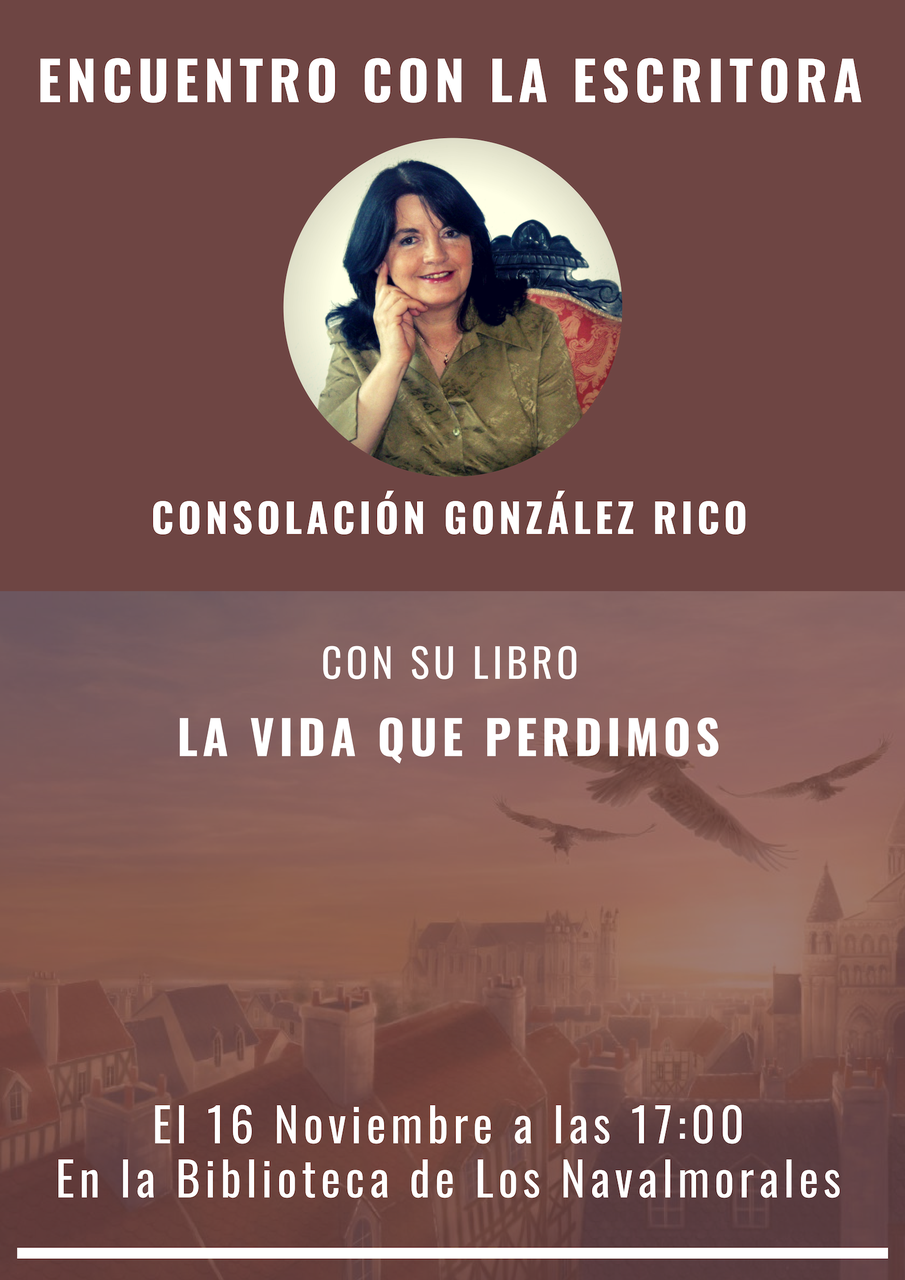
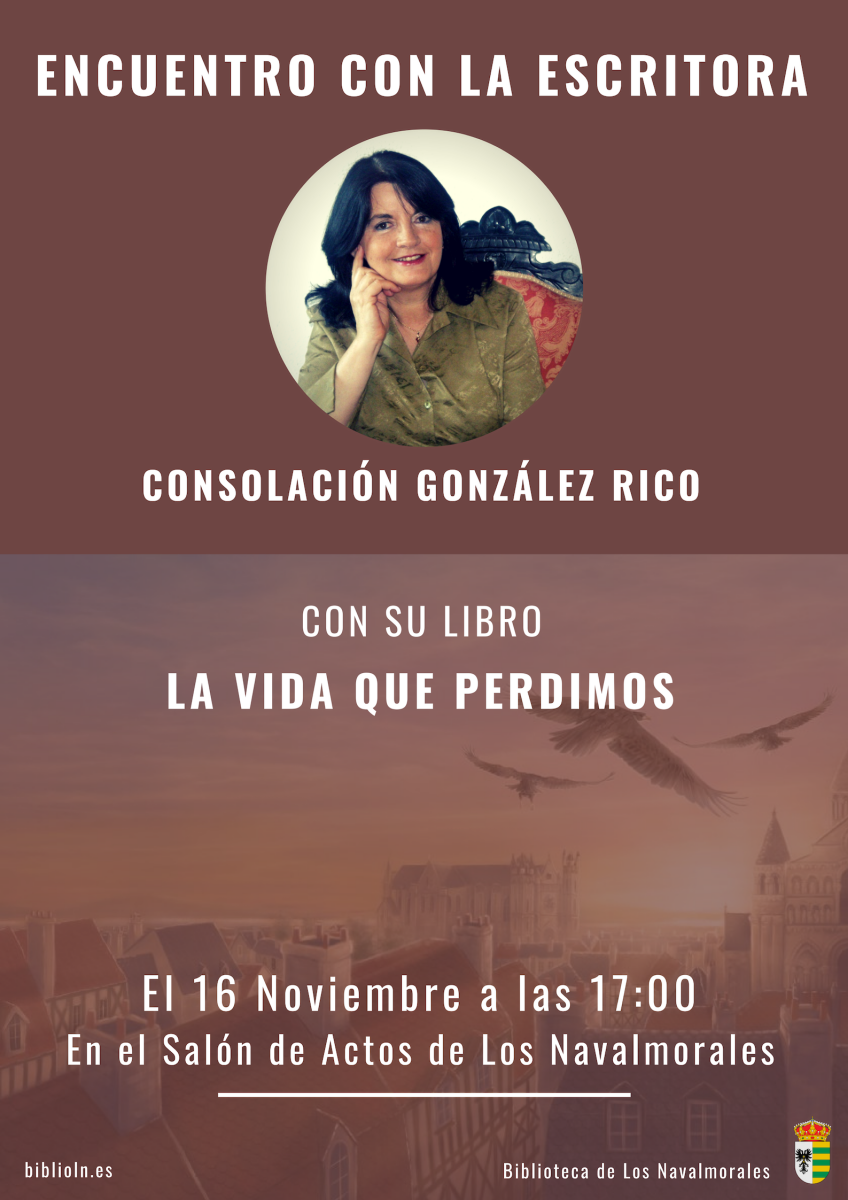
Nikola auto commit.
Source commit: 4f92917197f484704f2e67c9673b4fca20db30a5
Nikola version: 8.0.1

Changed region(s): [[0.0, 0.8017, 0.9811, 0.9867]]

diff --git a/posts/2018/10/encuentro-consolacion-gonzalez-rico./index.html b/posts/2018/10/encuentro-consolacion-gonzalez-rico./index.html
@@ -123,7 +123,7 @@
 
     </header><div class="e-content entry-content" itemprop="articleBody text">
     <div>
-<p>El próximo día 16 de Noviembre a las 17:00 en la Biblioteca, tendrá lugar un encuentro con la escritora <strong>Gonsolación González Rico</strong> con su libro <em>La Vida que Perdimos</em>.</p>
+<p>El próximo día 16 de Noviembre a las 17:00 en el Salón de Actos de Los Navalmorales, tendrá lugar un encuentro con la escritora <strong>Gonsolación González Rico</strong> con su libro <em>La Vida que Perdimos</em>.</p>
 <p>¡Estáis todos y todas invitados!</p>
 <a class="reference external image-reference" href="../../../../2018/encuentro-consolacion-gonzalez-rico.png"><img alt="/2018/encuentro-consolacion-gonzalez-rico.thumbnail.png" class="align-center" src="../../../../2018/encuentro-consolacion-gonzalez-rico.thumbnail.png"></a>
 </div>

diff --git a/index.html b/index.html
@@ -211,7 +211,7 @@
 </div>
             </header><div class="e-content entry-content">
                     <div>
-<p>El próximo día 16 de Noviembre a las 17:00 en la Biblioteca, tendrá lugar un encuentro con la escritora <strong>Gonsolación González Rico</strong> con su libro <em>La Vida que Perdimos</em>.</p>
+<p>El próximo día 16 de Noviembre a las 17:00 en el Salón de Actos de Los Navalmorales, tendrá lugar un encuentro con la escritora <strong>Gonsolación González Rico</strong> con su libro <em>La Vida que Perdimos</em>.</p>
 <p>¡Estáis todos y todas invitados!</p>
 <a class="reference external image-reference" href="2018/encuentro-consolacion-gonzalez-rico.png"><img alt="/2018/encuentro-consolacion-gonzalez-rico.thumbnail.png" class="align-center" src="2018/encuentro-consolacion-gonzalez-rico.thumbnail.png"></a>
 </div>

diff --git a/posts/2018/10/encuentro-consolacion-gonzalez-rico./index.rst b/posts/2018/10/encuentro-consolacion-gonzalez-rico./index.rst
@@ -6,7 +6,7 @@
 .. previewImage: /2018/encuentro-consolacion-gonzalez-rico.png
 .. type: micro
 
-El próximo día 16 de Noviembre a las 17:00 en la Biblioteca, tendrá lugar un encuentro con la escritora **Gonsolación González Rico** con su libro *La Vida que Perdimos*.
+El próximo día 16 de Noviembre a las 17:00 en el Salón de Actos de Los Navalmorales, tendrá lugar un encuentro con la escritora **Gonsolación González Rico** con su libro *La Vida que Perdimos*.
 
 ¡Estáis todos y todas invitados!
 
